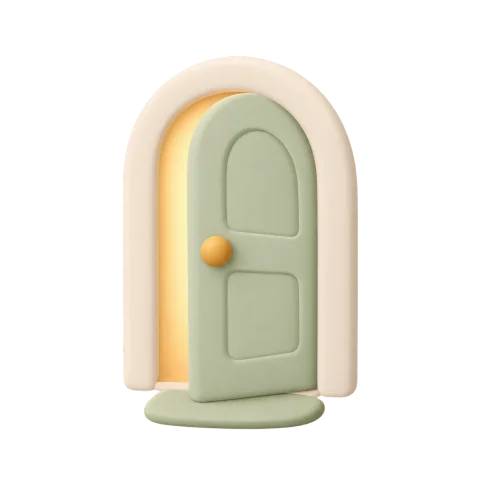
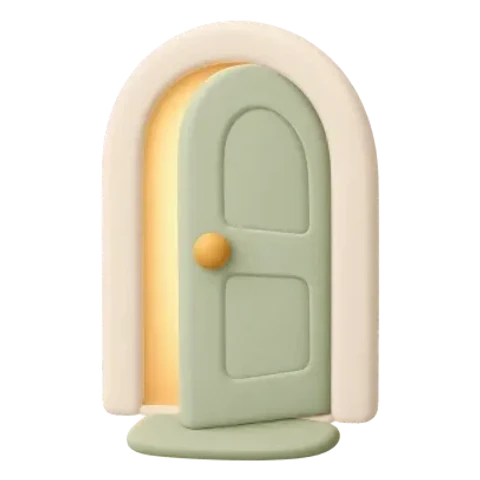
fix: tighten empty state spacing and crop picture padding

diff --git a/e2e/empty-spacing.spec.ts b/e2e/empty-spacing.spec.ts
@@ -1,0 +1,92 @@
+import { expect, test } from "@playwright/test";
+import type { Page } from "@playwright/test";
+import { authValue } from "./auth-seed";
+
+const instructor = {
+  cookies: [],
+  origins: [
+    {
+      origin: "http://localhost:3100",
+      localStorage: [{ name: "ast.auth.v1", value: authValue("instructor") }],
+    },
+  ],
+};
+
+const noSidewaysScroll = (page: Page) =>
+  page.evaluate(() => document.documentElement.scrollWidth <= document.documentElement.clientWidth);
+const box = async (loc: ReturnType<Page["locator"]>) => (await loc.boundingBox())!;
+const near = (actual: number, expected: number) =>
+  expect(Math.abs(actual - expected)).toBeLessThanOrEqual(2);
+
+for (const width of [360, 430]) {
+  test.describe(`Empty state spacing at ${width}px`, () => {
+    test.use({ viewport: { width, height: 900 }, storageState: instructor });
+
+    test("Content: 16px above the picture, 12px to the title, 6px to the line, 24px to the next block; centred; 140px", async ({
+      page,
+    }) => {
+      await page.goto("/instructor/content");
+      const picture = await box(page.locator("[data-empty-picture]"));
+      const label = await box(page.getByRole("heading", { name: "YOUR TOPICS" }));
+      const title = await box(page.locator("[data-content-empty] [data-empty-title]"));
+      const line = await box(page.locator("[data-content-empty] [data-empty-text]"));
+      const next = await box(page.locator("[data-course-row]"));
+      expect([Math.round(picture.width), Math.round(picture.height)]).toEqual([140, 140]);
+      near(picture.y - (label.y + label.height), 16);
+      near(title.y - (picture.y + picture.height), 12);
+      near(line.y - (title.y + title.height), 6);
+      near(next.y - (line.y + line.height), 24);
+      // the group is centred and the text is at most 280px wide
+      for (const part of [picture, title, line]) near(part.x + part.width / 2, width / 2);
+      expect(title.width).toBeLessThanOrEqual(280);
+      expect(line.width).toBeLessThanOrEqual(280);
+      expect(await noSidewaysScroll(page)).toBe(true);
+    });
+
+    test("Content fallback (the flat icon version) has the same gaps", async ({ page }) => {
+      await page.route("**/images/instructor/content-empty.webp", (route) => route.abort());
+      await page.goto("/instructor/content");
+      const circle = await box(page.locator("[data-empty-circle]"));
+      const label = await box(page.getByRole("heading", { name: "YOUR TOPICS" }));
+      const title = await box(page.locator("[data-content-empty] [data-empty-title]"));
+      const line = await box(page.locator("[data-content-empty] [data-empty-text]"));
+      const next = await box(page.locator("[data-course-row]"));
+      expect([Math.round(circle.width), Math.round(circle.height)]).toEqual([140, 140]);
+      near(circle.y - (label.y + label.height), 16);
+      near(title.y - (circle.y + circle.height), 12);
+      near(line.y - (title.y + title.height), 6);
+      near(next.y - (line.y + line.height), 24);
+      expect(await noSidewaysScroll(page)).toBe(true);
+    });
+
+    test("Students no results: 12px, 6px and 24px, the picture at 140px", async ({ page }) => {
+      await page.goto("/instructor/students");
+      await page.getByPlaceholder("Search students").fill("Zimmerman");
+      const empty = page.locator('[data-empty="search"]');
+      await expect(empty).toBeVisible();
+      const art = await box(empty.locator("[data-no-results-art]"));
+      const title = await box(empty.locator("[data-empty-title]"));
+      const line = await box(empty.locator("[data-empty-text]"));
+      const action = await box(empty.locator("[data-empty-action]"));
+      expect([Math.round(art.width), Math.round(art.height)]).toEqual([140, 140]);
+      near(title.y - (art.y + art.height), 12);
+      near(line.y - (title.y + title.height), 6);
+      near(action.y - (line.y + line.height), 24);
+      expect(title.width).toBeLessThanOrEqual(280);
+      expect(line.width).toBeLessThanOrEqual(280);
+      expect(await noSidewaysScroll(page)).toBe(true);
+    });
+
+    test("nothing else on the Content screen moved: the Import button, the course card and the note keep their sizes", async ({
+      page,
+    }) => {
+      await page.goto("/instructor/content");
+      const importLink = await box(page.getByRole("link", { name: "Import content" }));
+      expect([Math.round(importLink.height), Math.round(importLink.x)]).toEqual([52, 16]);
+      expect(Math.round((await box(page.locator("[data-course-row]"))).height)).toBe(72);
+      await expect(page.locator("[data-content-note]")).toContainText(
+        "Your topics stay in this browser (prototype).",
+      );
+    });
+  });
+}

diff --git a/components/InstructorContent/ContentEmpty.test.tsx b/components/InstructorContent/ContentEmpty.test.tsx
@@ -17,10 +17,10 @@ describe("the Content empty state picture", () => {
     expect(data[3]).toBe(0);
   });
 
-  it("draws the picture at 160px with an empty alt text and no circle, icon or dashes", () => {
+  it("draws the picture at 140px with an empty alt text and no circle, icon or dashes", () => {
     const html = renderToStaticMarkup(<ContentEmpty />);
     expect(html).toMatch(/data-empty-picture[^>]*alt=""/);
-    expect(html).toContain("h-40 w-40 object-contain");
+    expect(html).toContain("h-[140px] w-[140px] object-contain");
     expect(html).not.toMatch(/data-empty-circle|data-empty-fallback|bg-sage-dash/);
     expect(html).toContain("You have no topics yet.");
   });
@@ -28,7 +28,50 @@ describe("the Content empty state picture", () => {
   it("keeps the earlier icon version as the fallback for a missing file", () => {
     const source = readFileSync("components/InstructorContent/ContentEmpty.tsx", "utf8");
     expect(source).toContain("data-empty-fallback");
-    expect(source).toContain("h-36 w-36");
+    expect(source).toContain("h-[140px] w-[140px]");
     expect(source).toContain("setFailed(true)");
   });
+});
+
+describe("the cropped 3D pictures", () => {
+  const cropped = [
+    "entry/entry-group",
+    "entry/entry-invite",
+    "entry/entry-profile",
+    "entry/entry-signin",
+    "instructor/content-empty",
+    "instructor/import-success",
+    "instructor/students-no-results",
+  ];
+
+  for (const name of cropped) {
+    it(`${name}.webp has about 4% transparent margin on its longer side (3 to 6%)`, async () => {
+      const { data, info } = await sharp(`public/images/${name}.webp`)
+        .ensureAlpha()
+        .raw()
+        .toBuffer({ resolveWithObject: true });
+      let x0 = info.width;
+      let x1 = -1;
+      let y0 = info.height;
+      let y1 = -1;
+      for (let y = 0; y < info.height; y++)
+        for (let x = 0; x < info.width; x++)
+          if (data[(y * info.width + x) * 4 + 3] > 8) {
+            x0 = Math.min(x0, x);
+            x1 = Math.max(x1, x);
+            y0 = Math.min(y0, y);
+            y1 = Math.max(y1, y);
+          }
+      expect(info.width).toBe(info.height);
+      const side = info.width;
+      const wide = x1 - x0 >= y1 - y0;
+      const margins = wide
+        ? [x0 / side, (side - 1 - x1) / side]
+        : [y0 / side, (side - 1 - y1) / side];
+      for (const margin of margins) {
+        expect(margin).toBeGreaterThanOrEqual(0.03);
+        expect(margin).toBeLessThanOrEqual(0.06);
+      }
+    });
+  }
 });

diff --git a/components/InstructorContent/ContentEmpty.tsx b/components/InstructorContent/ContentEmpty.tsx
@@ -26,8 +26,8 @@ function Dashes({ side }: { side: "left" | "right" }) {
 
 /**
  * The empty state of "Your topics" (DESIGN.md: One icon tile, a round topic code and a shared note):
- * the 3D picture centred at 160px (empty alt text), a semibold title and a muted line. If the file
- * is missing or fails to load, the earlier version shows instead so nothing breaks: a 144px round
+ * the 3D picture centred at 140px (empty alt text), a semibold title and a muted line. If the file
+ * is missing or fails to load, the earlier version shows instead so nothing breaks: a 140px round
  * sand circle with the flat document icon and short dashes on each side.
  */
 export function ContentEmpty() {
@@ -39,13 +39,13 @@ export function ContentEmpty() {
     if (el && el.complete && el.naturalWidth === 0) setFailed(true);
   }, []);
   return (
-    <div data-content-empty className="flex flex-col items-center gap-3 px-4 py-6 text-center">
+    <div data-content-empty className="flex flex-col items-center px-4 pt-1 pb-2 text-center">
       {failed ? (
         <div className="relative" data-empty-fallback-art>
           <Dashes side="left" />
           <div
             data-empty-circle
-            className="flex h-36 w-36 items-center justify-center overflow-hidden rounded-full bg-secondary-sand"
+            className="flex h-[140px] w-[140px] items-center justify-center overflow-hidden rounded-full bg-secondary-sand"
           >
             <FileText
               data-empty-fallback
@@ -64,14 +64,18 @@ export function ContentEmpty() {
           data-empty-picture
           src={CONTENT_EMPTY_IMAGE}
           alt=""
-          width={160}
-          height={160}
-          className="h-40 w-40 object-contain"
+          width={140}
+          height={140}
+          className="h-[140px] w-[140px] object-contain"
           onError={() => setFailed(true)}
         />
       )}
-      <h3 className="type-body-strong mt-3">{EMPTY_TITLE}</h3>
-      <p className="type-body text-text-secondary">{EMPTY_LINE}</p>
+      <h3 data-empty-title className="type-body-strong lh-title mt-3 max-w-[280px]">
+        {EMPTY_TITLE}
+      </h3>
+      <p data-empty-text className="type-body lh-text mt-1.5 max-w-[280px] text-text-secondary">
+        {EMPTY_LINE}
+      </p>
     </div>
   );
 }

diff --git a/e2e/instructor-students.spec.ts b/e2e/instructor-students.spec.ts
@@ -293,21 +293,21 @@ for (const width of [360, 430]) {
       await expect(empty).toContainText("No students match this search.");
       await expect(empty).toContainText("Try another name or clear the filters.");
       expect(await bg(empty)).toBe(WHITE);
-      // the picture: about 120px, centred above the title, decorative
+      // the picture: 140px, centred above the title, decorative
       const art = empty.locator("[data-no-results-art]");
       await expect(art).toHaveAttribute("src", "/images/instructor/students-no-results.webp");
       await expect(art).toHaveAttribute("alt", "");
       const a = (await box(art))!;
       const e = (await box(empty))!;
-      expect([a.width, a.height]).toEqual([120, 120]);
+      expect([a.width, a.height]).toEqual([140, 140]);
       expect(Math.abs(a.x + a.width / 2 - (e.x + e.width / 2))).toBeLessThanOrEqual(1);
       expect(a.y).toBeLessThan((await box(empty.getByRole("heading")))!.y);
       await expect(empty.locator("[data-empty-tile]")).toHaveCount(0);
-      // the spacing: picture to title 16px, title to line 6px, line to the button 24px
+      // the spacing: picture to title 12px, title to line 6px, line to the button 24px
       const title = (await box(empty.locator("[data-empty-title]")))!;
       const line = (await box(empty.locator("[data-empty-text]")))!;
       const action = (await box(empty.locator("[data-empty-action]")))!;
-      expect(Math.round(title.y - (a.y + a.height))).toBe(16);
+      expect(Math.round(title.y - (a.y + a.height))).toBe(12);
       expect(Math.round(line.y - (title.y + title.height))).toBe(6);
       expect(Math.round(action.y - (line.y + line.height))).toBe(24);
       expect(await art.evaluate((el: HTMLImageElement) => el.naturalWidth > 0)).toBe(true);

diff --git a/e2e/icon-tiles.spec.ts b/e2e/icon-tiles.spec.ts
@@ -129,7 +129,7 @@ for (const width of [360, 430]) {
       await expect(note.locator("svg.lucide-lightbulb")).toHaveCount(1);
     });
 
-    test("the Content empty state shows the 3D picture at 160px, loaded, with an empty alt text", async ({
+    test("the Content empty state shows the 3D picture at 140px, loaded, with an empty alt text", async ({
       page,
     }) => {
       await page.goto("/instructor/content");
@@ -139,7 +139,7 @@ for (const width of [360, 430]) {
       await expect(picture).toHaveAttribute("src", "/images/instructor/content-empty.webp");
       expect(await picture.evaluate((el: HTMLImageElement) => el.naturalWidth)).toBeGreaterThan(0);
       const box = (await picture.boundingBox())!;
-      expect([Math.round(box.width), Math.round(box.height)]).toEqual([160, 160]);
+      expect([Math.round(box.width), Math.round(box.height)]).toEqual([140, 140]);
       expect(Math.round(box.x + box.width / 2)).toBe(Math.round(width / 2));
       expect(await picture.evaluate((el) => getComputedStyle(el).objectFit)).toBe("contain");
       await expect(
@@ -159,7 +159,7 @@ for (const width of [360, 430]) {
       await page.goto("/instructor/content");
       await expect(page.locator("[data-empty-fallback]")).toBeVisible();
       const circle = (await page.locator("[data-empty-circle]").boundingBox())!;
-      expect([circle.width, circle.height]).toEqual([144, 144]);
+      expect([circle.width, circle.height]).toEqual([140, 140]);
       await expect(page.locator("[data-dashes=left] span")).toHaveCount(3);
       await expect(page.locator("[data-empty-picture]")).toHaveCount(0);
       expect(await noSidewaysScroll(page)).toBe(true);

diff --git a/components/InstructorStudents/StudentsListView.tsx b/components/InstructorStudents/StudentsListView.tsx
@@ -62,7 +62,7 @@ function EmptyTile() {
   );
 }
 
-/** The "no students found" picture (about 120px, decorative); the icon tile when it is missing. */
+/** The "no students found" picture (140px, decorative); the icon tile when it is missing. */
 function NoResultsArt() {
   const [failed, setFailed] = useState(false);
   const image = useRef<HTMLImageElement>(null);
@@ -79,9 +79,9 @@ function NoResultsArt() {
       data-no-results-art
       src={NO_RESULTS_IMAGE}
       alt=""
-      width={120}
-      height={120}
-      className="h-[120px] w-[120px] object-contain"
+      width={140}
+      height={140}
+      className="h-[140px] w-[140px] object-contain"
       onError={() => setFailed(true)}
     />
   );
@@ -110,10 +110,10 @@ export function EmptyCard({
       className="flex flex-col items-center rounded-card border border-selectable-stroke bg-card p-[var(--gutter,1rem)] text-center shadow-(--card-shadow)"
     >
       {art ? <NoResultsArt /> : <EmptyTile />}
-      <h2 data-empty-title className="type-item-title mt-4">
+      <h2 data-empty-title className="type-item-title lh-title mt-3 max-w-[280px]">
         {title}
       </h2>
-      <p data-empty-text className="type-body mt-1.5 text-text-secondary">
+      <p data-empty-text className="type-body lh-text mt-1.5 max-w-[280px] text-text-secondary">
         {text}
       </p>
       {action && (

diff --git a/components/InstructorStudents/InstructorStudents.test.tsx b/components/InstructorStudents/InstructorStudents.test.tsx
@@ -401,12 +401,12 @@ describe("the Students list", () => {
     const card = search.slice(search.indexOf('data-empty="search"'));
     expect(card).toContain('src="/images/instructor/students-no-results.webp"');
     expect(card).toContain('alt=""');
-    expect(card).toContain("h-[120px] w-[120px]");
+    expect(card).toContain("h-[140px] w-[140px]");
     expect(card).not.toContain("data-empty-tile");
     expect(card.indexOf("data-no-results-art")).toBeLessThan(card.indexOf("No students match"));
     expect(card).toContain("items-center");
-    // the spacing: picture 16px to the title, 6px to the line, 24px to the Secondary button
-    expect(card).toMatch(/data-empty-title[^>]*class="[^"]*\bmt-4\b/);
+    // the spacing: picture 12px to the title, 6px to the line, 24px to the Secondary button
+    expect(card).toMatch(/data-empty-title[^>]*class="[^"]*\bmt-3\b/);
     expect(card).toMatch(/data-empty-text[^>]*class="[^"]*\bmt-1\.5\b/);
     expect(card).toMatch(/data-empty-action[^>]*class="[^"]*\bmt-6\b/);
     expect(card).not.toMatch(/data-empty="search"[^>]*\bgap-/);

diff --git a/e2e/instructor-content.spec.ts b/e2e/instructor-content.spec.ts
@@ -135,9 +135,9 @@ for (const width of [360, 430]) {
       // the illustrated empty state
       await expect(page.getByRole("heading", { name: "You have no topics yet." })).toBeVisible();
       await expect(page.getByText("Import a document to create your first topic.")).toBeVisible();
-      // the 3D picture, centred at 160px (no circle, icon or dashes)
+      // the 3D picture, centred at 140px (no circle, icon or dashes)
       const picture = (await page.locator("[data-empty-picture]").boundingBox())!;
-      expect([picture.width, picture.height]).toEqual([160, 160]);
+      expect([picture.width, picture.height]).toEqual([140, 140]);
       expect(Math.round(picture.x + picture.width / 2)).toBe(Math.round(width / 2));
       await expect(page.locator("[data-empty-circle], [data-dashes]")).toHaveCount(0);
       // the info card

diff --git a/components/InstructorContent/InstructorContent.test.tsx b/components/InstructorContent/InstructorContent.test.tsx
@@ -108,7 +108,9 @@ describe("the Content tab", () => {
     expect(empty).toContain("YOUR TOPICS");
     // the 3D picture centred at 160px with an empty alt text; no circle, icon or dashes while it loads
     expect(empty).toContain('src="/images/instructor/content-empty.webp"');
-    expect(empty).toMatch(/data-empty-picture[^>]*alt=""[^>]*h-40 w-40 object-contain/);
+    expect(empty).toMatch(
+      /data-empty-picture[^>]*alt=""[^>]*h-\[140px\] w-\[140px\] object-contain/,
+    );
     expect(empty).not.toMatch(/data-empty-circle|bg-sage-dash/);
     expect(empty).not.toContain("data-set-card");
     expect(empty).toContain("Your topics stay in this browser (prototype).");

diff --git a/app/globals.css b/app/globals.css
@@ -335,6 +335,13 @@ dialog[data-sheet]::backdrop,
   font-weight: 600;
   font-variant-numeric: tabular-nums;
 }
+/* Line heights of the picture empty states (DESIGN.md: Empty state spacing). */
+@utility lh-title {
+  line-height: 1.3;
+}
+@utility lh-text {
+  line-height: 1.45;
+}
 @utility type-numeral {
   font-size: 28px;
   line-height: 1.33;

diff --git a/DESIGN.md b/DESIGN.md
@@ -1068,3 +1068,8 @@ Four changes to the Overview and the group switcher, mobile 360 and 430px.
 - Note (`TipNote`, one component): a soft sand band (`--secondary-sand`, 14px radius) with a 40px round tile on the left holding the lightbulb (the icon of "note / tip" everywhere in the app; the component takes an icon prop), a 1px vertical divider and the text in the muted style; the text wraps inside its own column, the tile and divider keep their size and are centred against the text. It is used on the instructor Content screen ("Your topics stay in this browser (prototype)") and for "No results yet. They appear when students start the exam." inside the Topics card of the Exam detail (replacing the plain grey box).
 - Content empty state: when the instructor has no topics, the picture `public/images/instructor/content-empty.webp` (a 3D document with a plus badge, square 800px, transparent) stands centred at 160px with an empty alt text, in place of the earlier sand circle, flat document icon and dash marks; the title, line, "Import content", the "Course topics" card and the note stay. If the file is missing or fails to load the earlier icon version (the sand circle with the flat document icon and the dashes) shows. The picture is not shown when the instructor already has topics.
 - Images list: `public/images/instructor/content-empty.webp` joins `import-analysing.webp`, `import-success.webp` and `students-no-results.webp`.
+
+## Empty state spacing (24 Nov 2026; tightens the Content empty state and the Students "no results" card)
+- The picture empty state (a 3D picture, a title, a description and then a button or a card) uses one set of gaps, measured between element boxes: 16px above the picture (below a section label such as YOUR TOPICS), 12px from the picture to the title, 6px from the title to the description, 24px from the description to the next block (button or card). The group is centred, the text is centred with a maximum width of 280px so a long description wraps evenly, and nothing else adds margin or padding between the parts. The title has a line height of 1.3 and the description 1.45 (two line-height-only helpers, `lh-title` and `lh-text`; sizes and weights stay the named styles).
+- The picture is shown at 140 by 140px on these empty states (it was 160 on Content and 120 on Students). The pictures are cropped to the visible object with an even transparent margin of about 4% on the longer side (so the visible edge is about the image edge): `content-empty.webp` (800px), `students-no-results.webp` and the four entry pictures (480px), `import-success.webp` (640px). The student feedback pictures (72px slot) and the Results pictures are left as they are: `result-pass.webp` and `result-retry.webp` already have 4% on their long side; `import-analysing.webp` has no transparent margin.
+- The fallback (the flat icon version: a 140px sand circle with the document icon and the dashes on Content, the icon tile on Students) keeps the same gaps. The Course topics card, the note, the Import button and all texts are unchanged.
